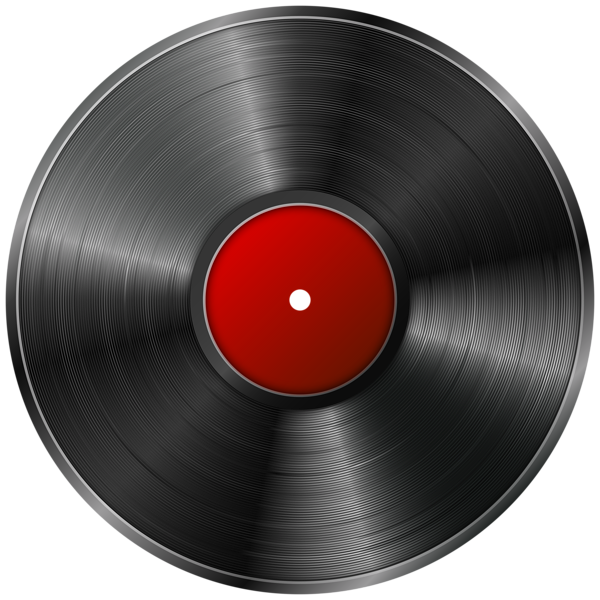
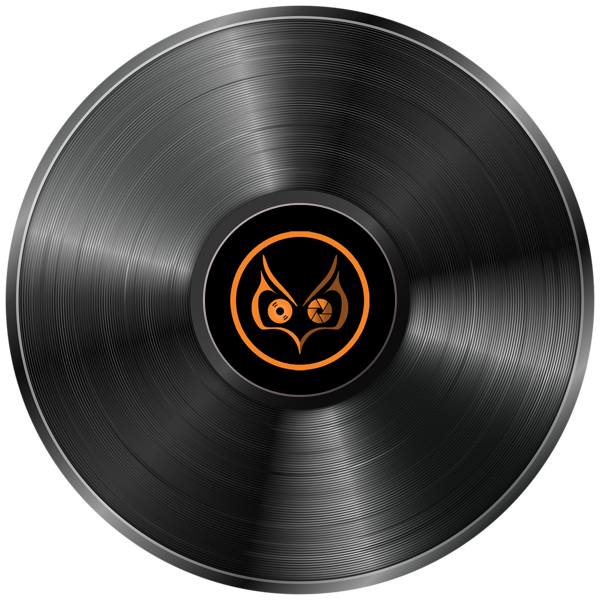
remover texto e tamanho melhorado

Changed region(s): [[0.33, 0.33, 0.66, 0.66]]

diff --git a/style.css b/style.css
@@ -26,8 +26,8 @@ body {
 
 #album {
 	position: absolute;
-	top: 22.5%;
-	left: 22.5%;
+	top: 12.5%;
+	left: 12.5%;
 	height: 50vw;
 	width: 50%;
 	max-height: 75%;
@@ -38,8 +38,8 @@ body {
 	top: 0;
 	left: 0;
 	z-index: 1;
-	width: 80%;
-	height: 80%;
+	width: 100%;
+	height: 100%;
 	background-image: url(capa.jpg);
 	background-size: 100% 100%;
 	box-shadow: 5px 0 20px 0 rgba(0,0,0,0.6),
@@ -52,8 +52,8 @@ body {
 		top: 2.5%;
 		left: 2.5%;
 		z-index: 0;
-		width: 75%;
-		height: 75%;
+		width: 95%;
+		height: 95%;
 		display: block;
 		background-image: url(vinil.png);
 		background-size: 106% 106%;

diff --git a/index.html b/index.html
@@ -8,7 +8,6 @@
     <link rel="stylesheet" href="style.css">
 </head>
 <body>
-    <h1>Polyphia - ego death</h1>
     <div id="img" class="wrap" onclick="play()" value="play()">
         <div id="album">
             <div id="cover">
